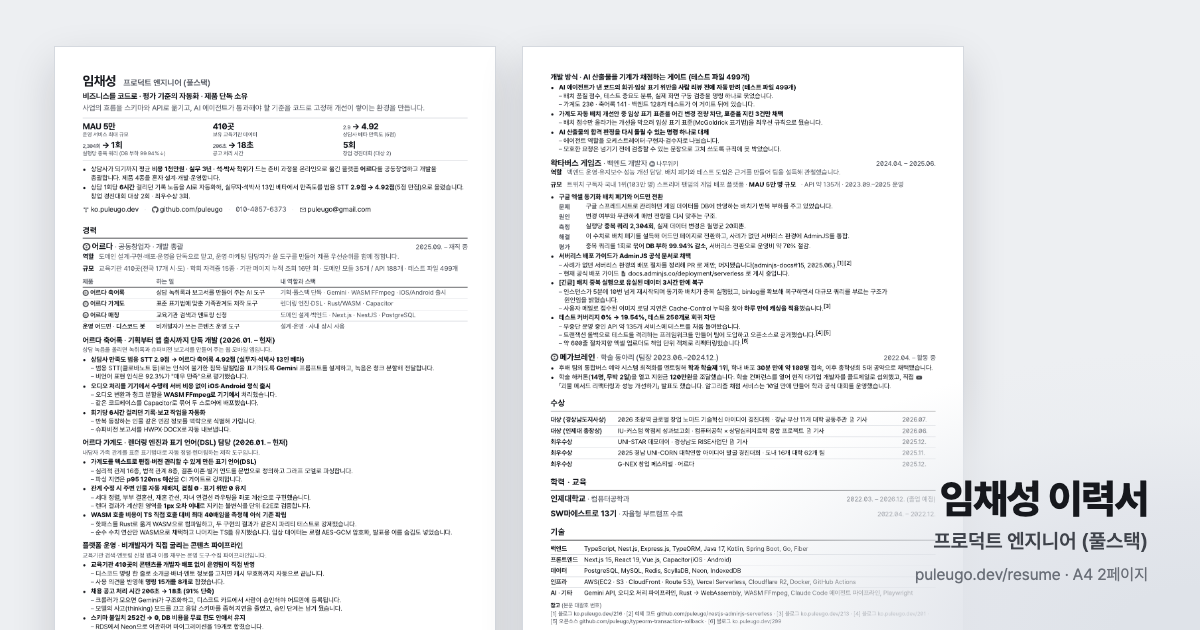
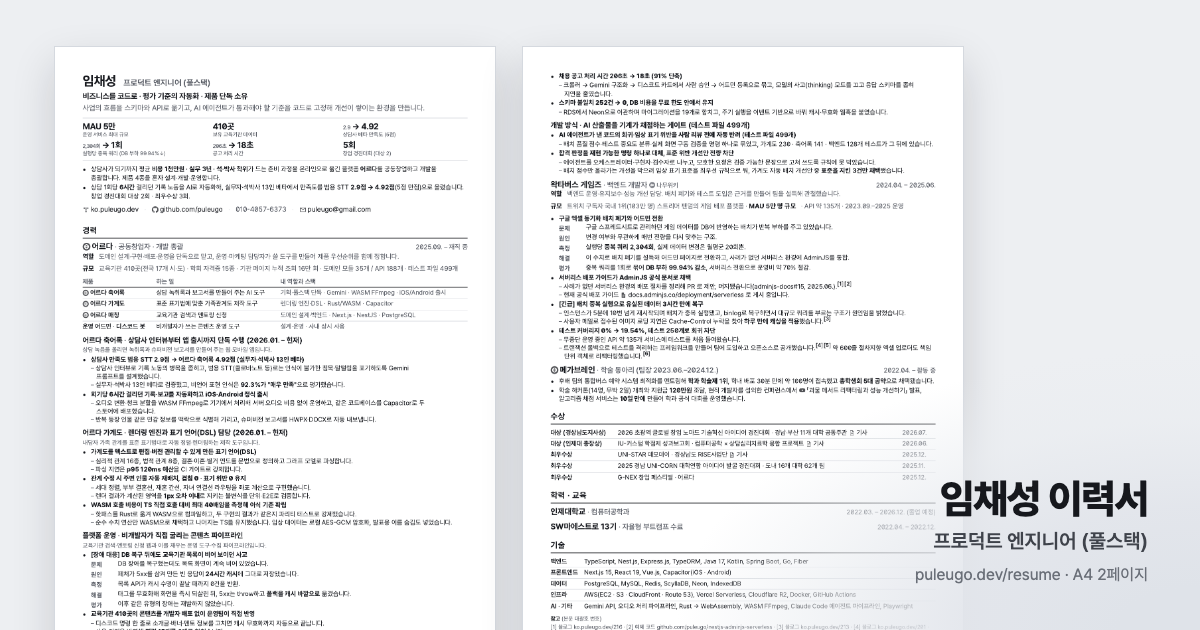
refactor: 강조를 수치로 옮기고 항목 통합, 유실된 장애 사례 복원
- Gemini·WASM FFmpeg 등 기술명 볼드를 해제하고 92.3% 같은 결과 수치로 이동
- 축어록 블록 제목을 상담사 인터뷰부터 앱 출시까지로 바꾸고 인터뷰·베타 검증 근거 추가
- 축어록 2개·개발 방식 2개·메가브레인 2개 항목을 각각 하나로 통합
- 재구성 중 사라졌던 캐시 오염 장애 사례를 플랫폼 운영 블록 앞으로 복원

Claude-Session: https://claude.ai/code/session_01W7x6f6aizACV8L1Ey8iNMM

Changed region(s): [[0.4625, 0.0905, 0.7708, 1.0], [0.0617, 0.573, 0.37, 1.0], [0.0925, 0.5127, 0.2467, 0.5429]]

diff --git a/resume/index.html b/resume/index.html
@@ -309,23 +309,18 @@
 	</table>
 
 	<div class="work">
-		<strong>어르다 축어록 · 기획부터 앱 출시까지 단독 개발 (2026.01. – 현재)</strong>
+		<strong>어르다 축어록 · 상담사 인터뷰부터 앱 출시까지 단독 수행 (2026.01. – 현재)</strong>
 		<p class="system-line">상담 녹음을 올리면 <t data-x="축어록">녹취록</t>과 슈퍼비전 보고서를 만들어 주는 웹·모바일 앱입니다.</p>
 		<ul>
 			<li class="task"><b>상담사 만족도 범용 STT 2.9점 → 어르다 축어록 <b>4.92점</b> (실무자·석박사 13인 베타)</b>
 				<ul class="how">
-					<li>범용 STT(클로바노트 등)로는 인식이 불가한 침묵·말떨림을 표기하도록 <b>Gemini</b> 프롬프트를 설계하고, 녹음은 청크 분할해 전달합니다.</li>
-					<li>비언어 표현 인식은 92.3%가 "매우 만족"으로 평가했습니다.</li>
+					<li>상담사 인터뷰로 기록 노동의 병목을 좁히고, 범용 STT(클로바노트 등)로는 인식이 불가한 침묵·말떨림을 표기하도록 Gemini 프롬프트를 설계했습니다.</li>
+					<li>실무자·석박사 13인 베타로 검증했고, 비언어 표현 인식은 <b>92.3%가 "매우 만족"</b>으로 평가했습니다.</li>
 				</ul></li>
-			<li class="task"><b>오디오 처리를 기기에서 수행해 서버 비용 없이 <b>iOS·Android 정식 출시</b></b>
+			<li class="task"><b>회기당 <b>6시간</b> 걸리던 기록·보고를 자동화하고 <b>iOS·Android 정식 출시</b></b>
 				<ul class="how">
-					<li>오디오 변환과 청크 분할을 <b>WASM FFmpeg로 기기에서</b> 처리했습니다.</li>
-					<li>같은 코드베이스를 Capacitor로 묶어 두 스토어에 배포했습니다.</li>
-				</ul></li>
-			<li class="task"><b>회기당 <b>6시간</b> 걸리던 기록·보고 작업을 자동화</b>
-				<ul class="how">
-					<li>반복 등장하는 인물 같은 민감 정보를 맥락으로 식별해 가립니다.</li>
-					<li>슈퍼비전 보고서를 HWPX·DOCX로 자동 내보냅니다.</li>
+					<li>오디오 변환·청크 분할을 WASM FFmpeg로 기기에서 처리해 서버 오디오 비용 없이 운영하고, 같은 코드베이스를 Capacitor로 두 스토어에 배포했습니다.</li>
+					<li>반복 등장 인물 같은 민감 정보를 맥락으로 식별해 가리고, 슈퍼비전 보고서를 HWPX·DOCX로 자동 내보냅니다.</li>
 				</ul></li>
 			</ul>
 	</div>
@@ -356,6 +351,14 @@
 		<strong>플랫폼 운영 · 비개발자가 직접 굴리는 콘텐츠 파이프라인</strong>
 		<p class="system-line"><t data-x="수련기관">교육기관</t> 검색·<t data-x="슈퍼비전">멘토링</t> 신청 웹과 이를 채우는 운영 도구·수집 파이프라인입니다.</p>
 		<ul>
+			<li class="case-study"><b>[장애 대응] DB 복구 뒤에도 <t data-x="수련기관">교육기관</t> 목록이 비어 보이던 사고</b>
+				<dl>
+					<dt>문제</dt><dd>DB 장애를 복구했는데도 목록 화면이 계속 비어 있었습니다.</dd>
+					<dt>원인</dt><dd>페처가 5xx를 삼켜 만든 빈 응답이 <b>24시간 캐시</b>에 그대로 저장됐습니다.</dd>
+					<dt>측정</dt><dd>목록 API가 캐시 수명이 끝날 때까지 0건을 반환.</dd>
+					<dt>해결</dt><dd>태그를 무효화해 화면을 즉시 되살린 뒤, 5xx는 throw하고 <b>폴백을 캐시 바깥으로</b> 옮겼습니다.</dd>
+					<dt>평가</dt><dd>이후 같은 유형의 장애는 재발하지 않았습니다.</dd>
+				</dl></li>
 			<li class="task"><b><t data-x="수련기관">교육기관</t> <b>410곳</b>의 콘텐츠를 개발자 배포 없이 운영팀이 직접 반영</b>
 				<ul class="how">
 					<li>디스코드 명령 한 줄로 소개글·배너·<t data-x="슈퍼바이저">멘토</t> 정보를 고치면 캐시 무효화까지 자동으로 끝납니다.</li>
@@ -363,15 +366,13 @@
 				</ul></li>
 			<li class="task"><b>채용 공고 처리 시간 206초 → <b>18초</b> (91% 단축)</b>
 				<ul class="how">
-					<li>크롤러가 모으면 Gemini가 구조화하고, 디스코드 카드에서 사람이 승인해야 어드민에 등록됩니다.</li>
-					<li>모델의 사고(thinking) 모드를 끄고 응답 스키마를 좁혀 지연을 줄였고, 승인 단계는 남겨 뒀습니다.</li>
+					<li>크롤러 → Gemini 구조화 → 디스코드 카드에서 사람 승인 → 어드민 등록으로 묶고, 모델의 사고(thinking) 모드를 끄고 응답 스키마를 좁혀 지연을 줄였습니다.</li>
 				</ul></li>
 			<li class="task"><b>스키마 불일치 <b>252건 → 0</b>, DB 비용을 무료 한도 안에서 유지</b>
 				<ul class="how">
-					<li>RDS에서 Neon으로 이관하며 마이그레이션을 19개로 합쳤습니다.</li>
-					<li>주기 실행을 이벤트 기반으로 바꾸고 캐시·무효화 웹훅을 붙였습니다.</li>
+					<li>RDS에서 Neon으로 이관하며 마이그레이션을 19개로 합치고, 주기 실행을 이벤트 기반으로 바꿔 캐시·무효화 웹훅을 붙였습니다.</li>
 				</ul></li>
-			</ul>
+						</ul>
 	</div>
 
 	<div class="work">
@@ -379,17 +380,12 @@
 		<ul>
 			<li class="task"><b>AI 에이전트가 낸 코드의 회귀·임상 표기 위반을 <b>사람 리뷰 전에 자동 반려</b> (테스트 파일 499개)</b>
 				<ul class="how">
-					<li>배치 품질 점수, 테스트 중요도 분류, 실제 화면 구동 검증을 명령 하나로 묶었습니다.</li>
-					<li>가계도 230 · 축어록 141 · 백엔드 128개 테스트가 이 게이트 뒤에 있습니다.</li>
+					<li>배치 품질 점수·테스트 중요도 분류·실제 화면 구동 검증을 명령 하나로 묶었고, 가계도 230 · 축어록 141 · 백엔드 128개 테스트가 그 뒤에 있습니다.</li>
 				</ul></li>
-			<li class="task"><b>가계도 자동 배치 개선안 중 임상 표기 표준을 어긴 변경 전량 차단, <b>표준을 지킨 3건만 채택</b></b>
+			<li class="task"><b>합격 판정을 <b>재현 가능한 명령 하나</b>로 대체, 표준 위반 개선안 전량 차단</b>
 				<ul class="how">
-					<li>배치 점수만 올라가는 개선을 막으려 임상 표기 표준(McGoldrick 표기법)을 최우선 규칙으로 뒀습니다.</li>
-				</ul></li>
-			<li class="task"><b>AI 산출물의 합격 판정을 <b>다시 돌릴 수 있는 명령 하나</b>로 대체</b>
-				<ul class="how">
-					<li>에이전트 역할을 오케스트레이터·구현자·검수자로 나눴습니다.</li>
-					<li>모호한 요청은 넘기기 전에 검증할 수 있는 문장으로 고쳐 쓰도록 규칙에 못 박았습니다.</li>
+					<li>에이전트를 오케스트레이터·구현자·검수자로 나누고, 모호한 요청은 검증 가능한 문장으로 고쳐 쓰도록 규칙에 못 박았습니다.</li>
+					<li>배치 점수만 올라가는 개선을 막으려 임상 표기 표준을 최우선 규칙으로 둬, 가계도 자동 배치 개선안 중 <b>표준을 지킨 3건만 채택</b>됐습니다.</li>
 				</ul></li>
 			</ul>
 	</div>
@@ -418,14 +414,14 @@
 				</ul></li>
 		<li class="task"><b><span class="tag">[긴급]</span> 배치 중복 실행으로 유실된 데이터 <b>3시간 만에 복구</b></b>
 				<ul class="how">
-					<li>인스턴스가 5분에 10번 넘게 재시작되며 동기화 배치가 중복 실행됐고, binlog를 확보해 복구하면서 대규모 쿼리를 부르는 구조가 원인임을 밝혔습니다.</li>
+					<li>인스턴스가 5분에 10번 넘게 재시작되며 배치가 중복 실행됐고, binlog로 복구하면서 대규모 쿼리를 부르는 구조가 원인임을 밝혔습니다.</li>
 					<li>사용자 메일로 접수된 이미지 로딩 지연은 Cache-Control 누락을 찾아 <b>하루 만에 캐싱을 적용</b>했습니다.<sup class="footnote"><a href="https://ko.puleugo.dev/213" data-card="3" data-preview data-tip="블로그 「[CloudFlare] 이미지 로드 속도 향상하기」">3</a></sup></li>
 				</ul></li>
 		<li class="task"><b>테스트 커버리지 <b>0% → 19.54%</b>, 테스트 250개로 회귀 차단</b>
 				<ul class="how">
 					<li>무중단 운영 중인 API 약 135개 서비스에 테스트를 처음 들여왔습니다.</li>
-					<li>트랜잭션 롤백으로 테스트를 격리하는 프레임워크를 만들어 팀에 도입하고 오픈소스로 공개했습니다.<sup class="footnote"><a href="https://ko.puleugo.dev/201" data-card="4" data-preview data-tip="블로그 「[Node.js] 트랜잭션을 활용한 테스트 격리 환경 구현하기」">4</a></sup><sup class="footnote"><a href="https://github.com/puleugo/typeorm-transaction-rollback" target="_blank" rel="noopener" data-tip="오픈소스 typeorm-transaction-rollback. 새 탭에서 열립니다">5</a></sup></li>
-					<li>약 600줄 절차지향 엑셀 업로더도 책임 단위 객체로 리팩터링했습니다.<sup class="footnote"><a href="https://ko.puleugo.dev/209" data-card="6" data-preview data-tip="블로그 「괴물 메서드 리팩터링과 성능개선하기」">6</a></sup></li>
+					<li>트랜잭션 롤백으로 테스트를 격리하는 프레임워크를 만들어 팀에 도입하고 오픈소스로 공개했습니다.<sup class="footnote"><a href="https://ko.puleugo.dev/201" data-card="4" data-preview data-tip="블로그 「[Node.js] 트랜잭션을 활용한 테스트 격리 환경 구현하기」">4</a></sup><sup class="footnote"><a href="https://github.com/puleugo/typeorm-transaction-rollback" target="_blank" rel="noopener" data-tip="오픈소스 typeorm-transaction-rollback. 새 탭에서 열립니다">5</a></sup> 약 600줄 절차지향 엑셀 업로더도 책임 단위 객체로 리팩터링했습니다.<sup class="footnote"><a href="https://ko.puleugo.dev/209" data-card="6" data-preview data-tip="블로그 「괴물 메서드 리팩터링과 성능개선하기」">6</a></sup></li>
+					
 				</ul></li>
 	</ul>
 </div>
@@ -436,8 +432,8 @@
 		<span class="period">2022.04. – 활동 중</span>
 	</div>
 	<ul>
-		<li>후배 팀의 통합버스 예약 시스템 최적화를 멘토링해 <b>학과 학술제 1위</b>, 학내 배포 <b>30분 만에 약 100명</b> 접속, 이후 <span class="nowrap">총학생회 5대 공약</span>으로 채택됐습니다.</li>
-		<li>학술 해커톤(<b>14명, 무박 2일</b>)을 열고 지원금 <b>120만원</b>을 조달했습니다. 학술 컨퍼런스를 열어 현직 대기업 개발자를 콜드메일로 섭외했고, 직접 <a href="https://www.youtube.com/watch?v=C2ns5fGUxz8" data-card="yt" data-preview="https://www.youtube.com/embed/C2ns5fGUxz8" data-tip="유튜브 영상 「[메가콘 2024] 괴물 메서드 리팩터링과 성능개선하기」"><svg class="icon"><use href="#i-youtube"/></svg>「괴물 메서드 리팩터링과 성능 개선하기」 발표</a>도 했습니다. 알고리즘 채점 서비스는 10일 만에 만들어 학과 공식 대회를 운영했습니다.</li>
+		<li>후배 팀의 통합버스 예약 시스템 최적화를 멘토링해 <b>학과 학술제 1위</b>, 학내 배포 30분 만에 약 100명이 접속했고 <b>총학생회 5대 공약</b>으로 채택됐습니다.</li>
+		<li>학술 해커톤(14명, 무박 2일) 개최와 지원금 <b>120만원</b> 조달, 현직 개발자를 섭외한 컨퍼런스에서 <a href="https://www.youtube.com/watch?v=C2ns5fGUxz8" data-card="yt" data-preview="https://www.youtube.com/embed/C2ns5fGUxz8" data-tip="유튜브 영상 「[메가콘 2024] 괴물 메서드 리팩터링과 성능개선하기」"><svg class="icon"><use href="#i-youtube"/></svg>「괴물 메서드 리팩터링과 성능 개선하기」 발표</a>, 알고리즘 채점 서비스는 <b>10일 만에</b> 만들어 학과 공식 대회를 운영했습니다.</li>
 	</ul>
 </div>
 
